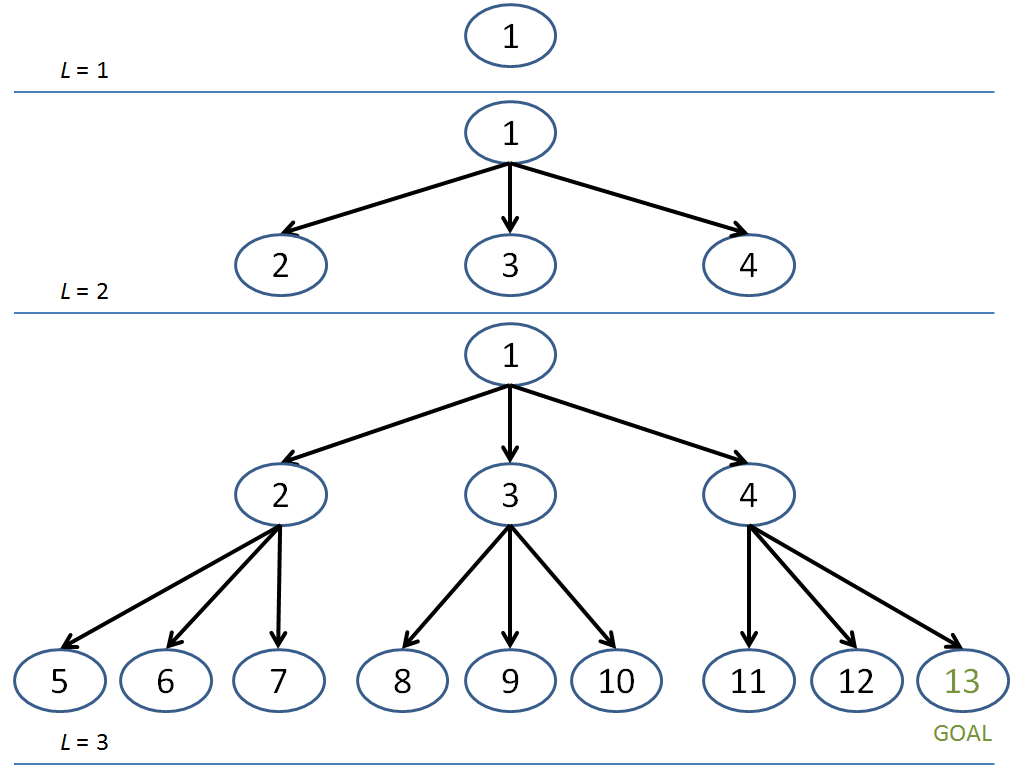
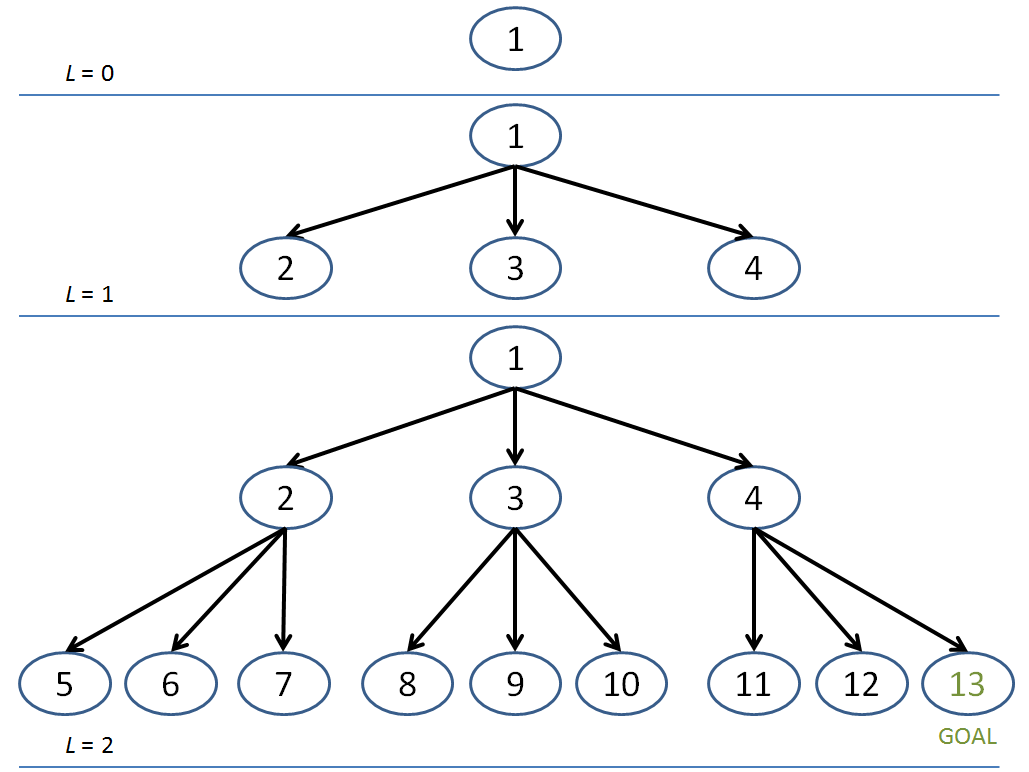
- Intermediary commit working on week 2

diff --git a/classes/spring-2014/cs-161/week-2.html b/classes/spring-2014/cs-161/week-2.html
@@ -146,11 +146,11 @@
             
             
             <br/>
-            <div id='classicalSearch' class='scrollspy-element' scrollspy-title='Classical Search'></div>
+            <div id='uninformedSearch' class='scrollspy-element' scrollspy-title='Uninformed Search'></div>
             <h1>Classical Search</h1>
             <div>
               <p>&quot;I found Beethoven!&quot; you exclaimed excitedly.</p>
-              <p>Not that kind of classical search, silly!</p>
+              <p>Not that kind of classical search!</p>
               <p class='definition'><strong>Classical search</strong> is the systematic, goal / test oriented search of moving from an initial state to a goal state.</p>
               <br/>
               <h3>Motivating Example</h3>
@@ -361,7 +361,7 @@
               <p>Ah, so as soon as we've hit our depth limit m (a leaf) we needn't remember the branch that got us there!</p>
               <p>So, let's think about an upper-bound for the number of nodes we'd need to keep in memory for any depth-first expansion:</p>
               <p class='question' name='search-q13'>What is the space complexity for limited-depth-first search in terms of b and m?</p>
-              <p class='answer' name='search-q13'>O(max(1, 3, 6, 12, ..., b*m)) = O(b*m)</p>
+              <p class='answer' name='search-q13'>E.g., with b = 3, O(1 + 3 + 6 + ... + b*m) = O(b*m), the general solution</p>
               <br/>
               <p>So we actually save space by using depth-first search (compared to breadth-first)!</p>
               <br/>
@@ -372,7 +372,7 @@
               <br/>
               <p>Is there a variant of depth-first search to make it complete?</p>
               <p>As it turns out, there is! It was even discovered by our own Dr. Richard Korf!</p>
-              <p class='definition'><strong>Iterative-deepening depth-first search</strong> is simply repeated application limited-depth-first search where m = 1, then 2, then 3, etc. etc.</p>
+              <p class='definition'><strong>Iterative-deepening depth-first search</strong> is simply repeated application limited-depth-first search where m = 0, then 1, then 2, etc. etc.</p>
               <br/>
               <p>Pictorially, then, we can think of iterative-deepening depth-first search as looking like the following, with the current depth-limit (l) starting at 1 and incrementing each time:</p>
               <div class='text-center fit-pres'>
@@ -389,8 +389,125 @@
               <br/>
               <p>So now that we see how IDDFS works, we can answer the following question:</p>
               <p class='question' name='search-q17'>Is IDDFS complete?</p>
-              <p class='answer' name='search-q17'>Yes!</p>
+              <p class='answer' name='search-q17'>Yes! Why? Consider it in comparison to how BFS operates... see the similarity?</p>
               
+              <br/>
+              <h3>Cost &amp; Optimality</h3>
+              <p>Did you know that there's a difference between the words &quot;optimal&quot; and &quot;optimum?&quot;</p>
+              <p class='definition'>An <strong>optimal</strong> goal state is one with the lowest cost, that might not be the only best solution.</p>
+              <br/>
+              <p>For example, observe below that our two goal states have the same distance from the initial state, so their cost is the same; they are both optimal.</p>
+              <div class='text-center fit-pres'>
+                <img src='../../../assets/images/spring-2014/cs-161/week-2/search-11.PNG' />
+              </div>
+              <br/>
+              <p>Contrast this with the following situation where we have 3 goal states, but only one of them can be reached with the lowest cost.</p>
+              <p class='definition'>An <strong>optimum</strong> goal state is *the* one with the lowest cost; it may have no peer goal states with an equal or lower cost.</p>
+              <br/>
+              <div class='text-center fit-pres'>
+                <img src='../../../assets/images/spring-2014/cs-161/week-2/search-12.PNG' />
+              </div>
+              <br/>
+              <p>Let's consider a maze where we're interested in reaching an optimum goal; we'll consider the cost incurred during movement as 1 unit per move.</p>
+              <div class='text-center fit-pres'>
+                <img src='../../../assets/images/spring-2014/cs-161/week-2/search-15.PNG' />
+              </div>
+              <br/>
+              <p>So, this example allows us to ask a few questions about search strategy optimality (is a search strategy guaranteed to return the optimal / optimum solution):</p>
+              <p class='question' name='search-q18'>Is DFS optimal? Is BFS? IDDFS?</p>
+              <p class='answer' name='search-q18'>DFS is NOT optimal! Observe the goal state it finds in the example above. BFS and IDDFS are, however.</p>
+              <br/>
+              <p>That said, this whole time we've considered each of our movements in our maze pathfinder to have an equal cost, and so total cost is simply the sum of the number of movements we make.</p>
+              <p>But what if we modified our costs by introducing a new element into our mazes?</p>
+              <p>Let's consider clear tiles to have a travel cost of 1, and tiles with 'M' (mud) to have a movement cost of 3.</p>
+              <div class='text-center fit-pres'>
+                <img src='../../../assets/images/spring-2014/cs-161/week-2/search-13.PNG' />
+              </div>
+              <br/>
+              <p>The search tree for this scenario will look like the following, with costs along the edges:</p>
+              <div class='text-center fit-pres'>
+                <img src='../../../assets/images/spring-2014/cs-161/week-2/search-14.PNG' />
+              </div>
+              <br/>
+              <p>A couple of observations to make here:</p>
+              <ul class='indent-1'>
+                <li><p>Is the optimal / optimum solution always just the most shallow in the search tree? When is or isn't it?</p></li>
+                <li><p>Will DFS find the optimum solution? Will BFS? IDDFS?</p></li>
+              </ul>
+              <br/>
+              <p>Hmm, so it looks like our uninformed searches aren't sufficiently empowered for optimality when we don't have uniform cost.</p>
+              <p>Let's look at some ways to empower our searches!</p>
+            </div>
+            <hr/>
+            
+            
+            <br/>
+            <div id='informedSearch' class='scrollspy-element' scrollspy-title='Informed Search'></div>
+            <h1>Informed / Heuristic Search</h1>
+            <div>
+              <p>
+                As we saw with our uninformed search strategies, we don't know about any descendants of a particular state (states reachable through some number of legal movements) without first expanding
+                the states in between.
+              </p>
+              <p>But, just because we don't <em>know</em> what states might be along a certain path, doesn't mean we can't make educated <em>guesses</em>.</p>
+              <p class='definition'>A <strong>heuristic</strong> is essentially an estimate of the cost that we might encounter expanding a search tree along a certain path.</p>
+              <br/>
+              <p>The goal of heuristic search is to look at every node along the frontier, and then expand the one that it thinks will lead to an optimal goal.</p>
+              <p>
+                To do this, we'll construct an evaluation function, <em>f(n)</em> that takes as input a node in our search tree (a state) and computes an estimated cost of reaching a goal state
+                <em>IF we decide to expand that node and follow a path from it.</em>
+              </p>
+              <p class='definition'><strong>Greedy / Best-first</strong> search is a heuristic search strategy that, instead of having a fixed exploration order, will choose an evaluation function that 
+                *only* attempts to minimize cost to a goal.
+              </p>
+              <br/>
+              <p>In this way, we can think of greedy search as ONLY using a heuristic, h(n), where h(n) = the estimated cost of a goal state along the path of node n.</p>
+              <p>In other words, for greedy search, our evaluation function f(n) = h(n)</p>
+              <p class='question' name='heuristic-q0'>What would be a good heuristic choice for our maze pathfinding example?</p>
+              <p class='answer' name='heuristic-q0'>Let's start by considering the <strong>Manhattan distance</strong> between a node and the closest goal.</p>
+              <br/>
+              <p>So, we might say:</p>
+<pre class='prettyprint'>
+  Mazefinding Manhattan Distance Heuristic:
+  f(n) = h(n)
+       = argmin( abs(nX - iGoalX) + abs(nY - iGoalY) )
+            i
+            
+  (where n is the player position in a node in the search tree,
+  and i represents one of each goal tile in the maze) 
+</pre>
+              <br/>
+              <p>So, seeing that in action:</p>
+              <div class='text-center fit-pres'>
+                <img src='../../../assets/images/spring-2014/cs-161/week-2/search-16.PNG' />
+              </div>
+              <br/>
+              <p>Notice, using best-first search, now we found not only the optimum solution, but also didn't bother expanding the left branch, and saved a lot of searching!</p>
+              <p>But now, let's throw in our Mud tiles and see how it does:</p>
+              <div class='text-center fit-pres'>
+                <img src='../../../assets/images/spring-2014/cs-161/week-2/search-17.PNG' />
+              </div>
+              <br/>
+              <p>Why didn't greedy work for us there?</p>
+              <p>It didn't remember its history! It stepped on a mud tile (+3 cost) but was only interested in Manhattan distance.</p>
+              <p>So how do we remember our choices as well?</p>
+              
+              <br/>
+              <h3>A* Search</h3>
+              <p>Greedy may have minimized our heuristic function but it didn't succeed with minimizing the *total* cost.</p>
+              <p class='definition'><strong>A* search</strong> defines its evaluation function as a sum of a heuristic function and a &quot;history&quot; function, g(n).<br/>f(n) = g(n) + h(n)</p>
+              <br/>
+              <p>The history function g(n) keeps a total of the *actual* cost we've encountered along our path so far, and then adds it to our heuristic cost for what's to come.</p>
+              <p>This means that we now choose to expand the node on the frontier with the smallest cost that we've already encountered, and also the smallest cost of what's yet to come!</p>
+              <p>So, if we maintain our Manhattan distance heuristic from before, we see that A* now successfully navigates our maze into the optimum goal.</p>
+              <div class='text-center fit-pres'>
+                <img src='../../../assets/images/spring-2014/cs-161/week-2/search-18.PNG' />
+              </div>
+              <br/>
+              <p class='question' name='heuristic-q1'>In what order will A* expand nodes in the above example (assume a left-to-right child preference for equal cost evaluations)?</p>
+              <p class='answer' name='heuristic-q1'>(1, 1), (2, 1), (1, 2), (2, 2), (3, 2)</p>
+              <br/>
+              <p>Nice! And we managed to cut off a bunch of branches from our search tree!</p>
             </div>
             <hr/>
             
